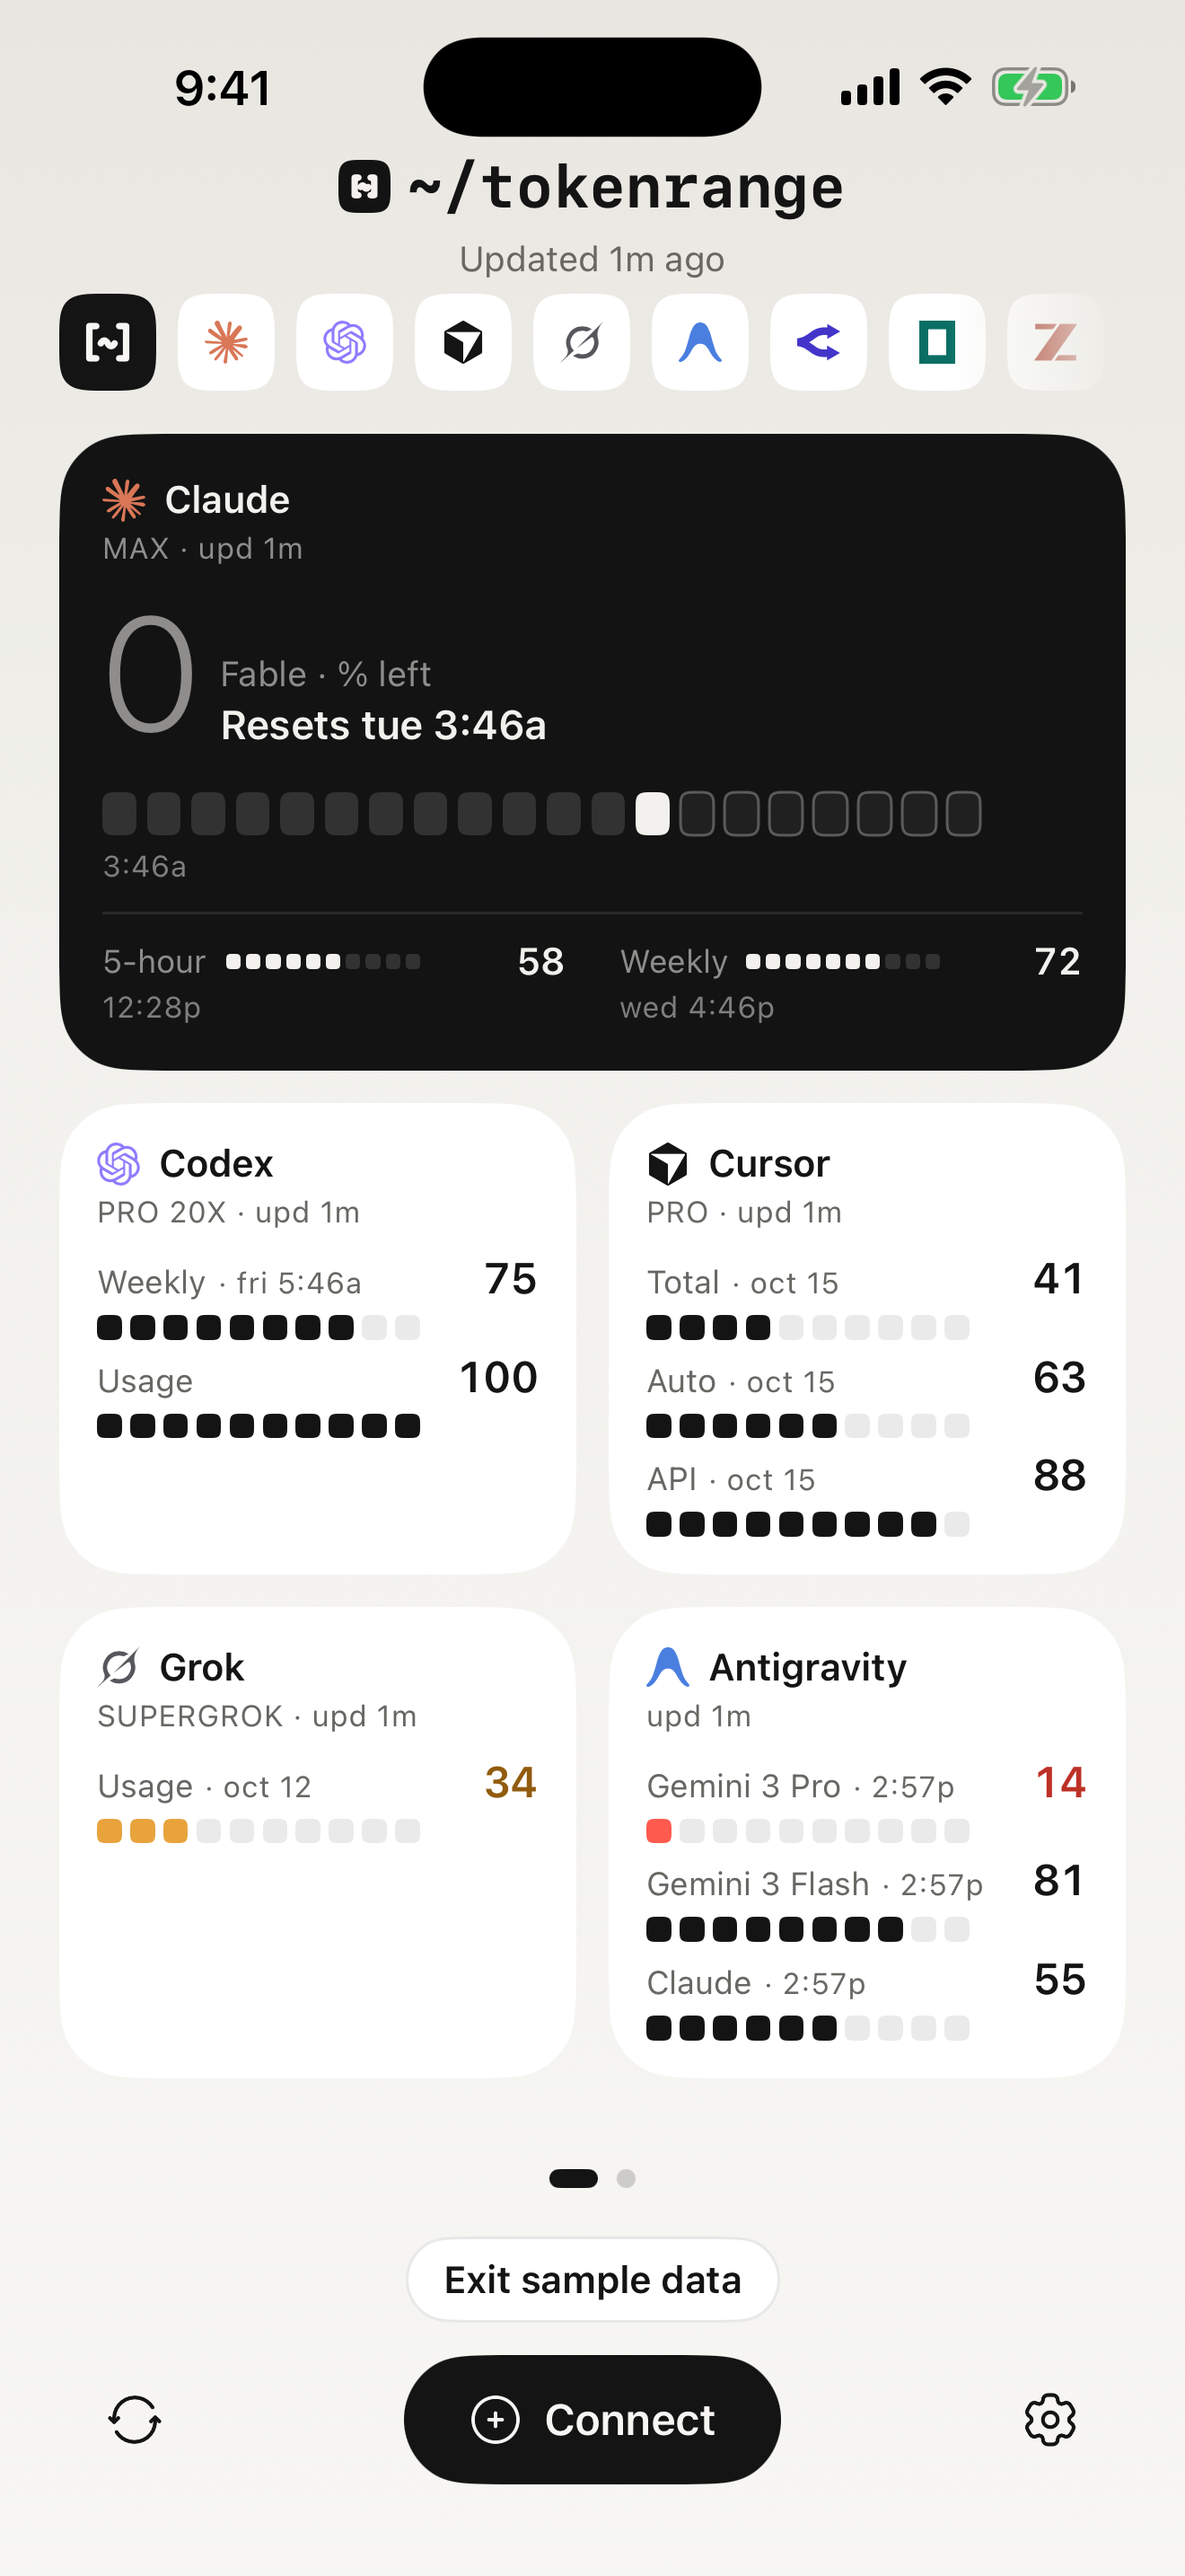
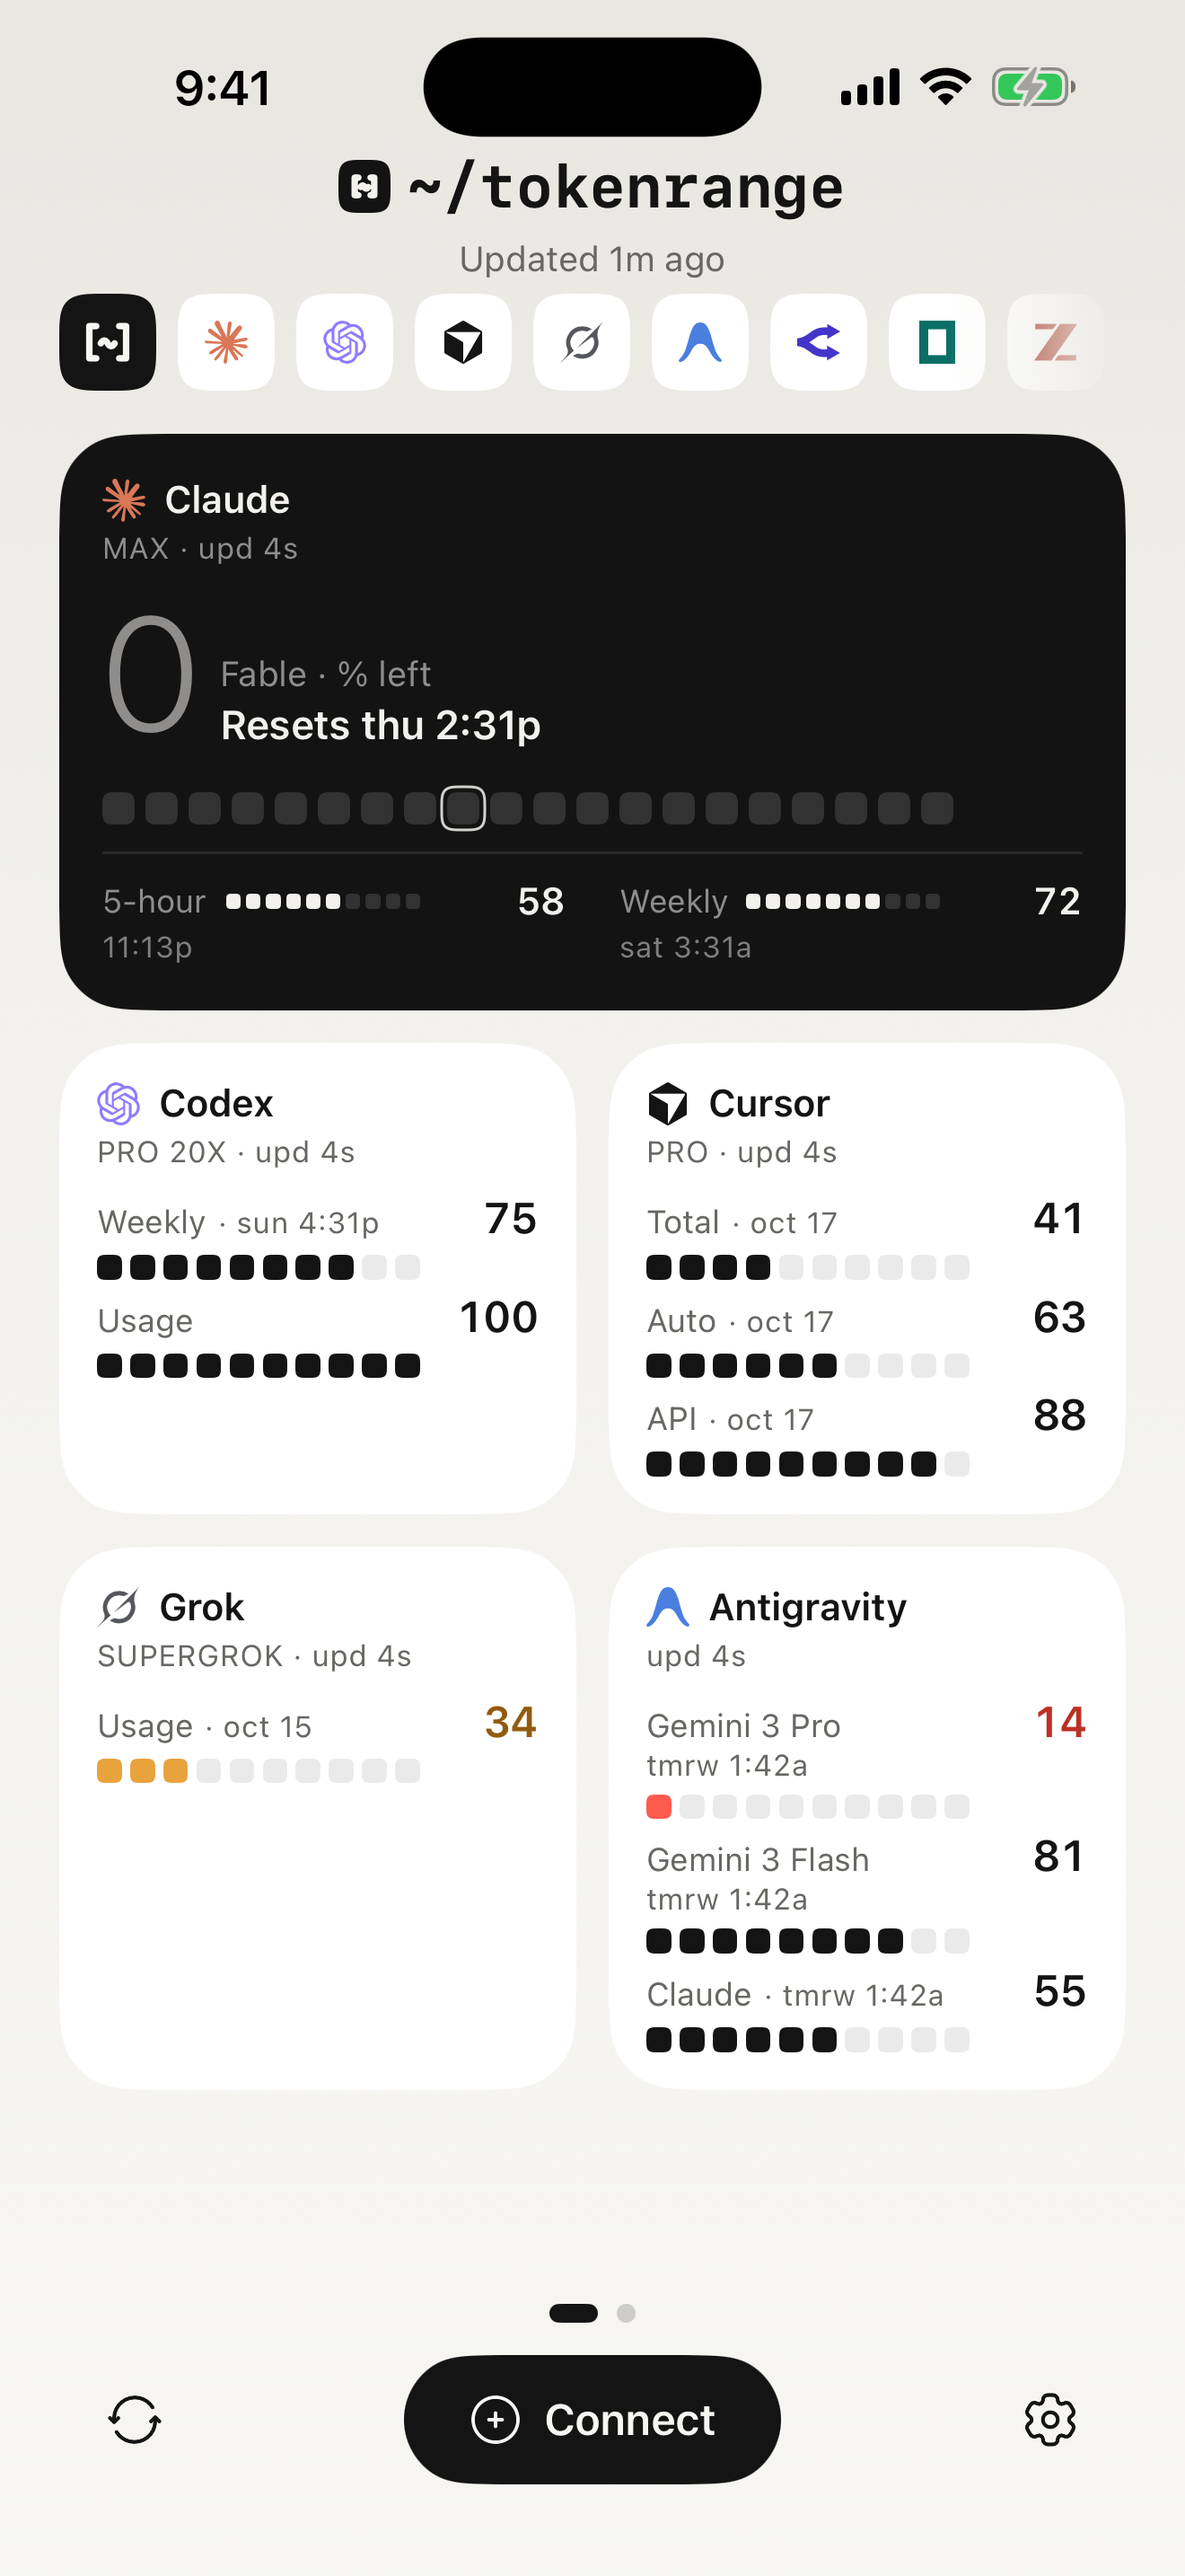
site: refresh dashboard and theme screenshots for 9 providers and new hero row
Captured fresh iPhone 17 Pro Max simulator shots from main (PR 27's 20-cell
pace-ring hero row and the 9-provider chip rail) with sample data. Updated
the dashboard alt text to describe the hero card's pace-ring meter. Widget
images are unchanged (gallery cell is untappable on iOS 26.5 sim; kept the
existing known-good captures rather than fake them).

diff --git a/index.html b/index.html
@@ -437,8 +437,8 @@
     </div>
     <div class="hero-shot">
       <div class="phone">
-        <img src="assets/bento-shot-dashboard.png?v=20261003" width="1320" height="2868"
-             alt="Token Range dashboard with a black Claude tile and white Codex, Cursor, Grok, and Antigravity tiles, each with grid-cell meters, sample data"
+        <img src="assets/bento-shot-dashboard.png?v=20261005" width="1320" height="2868"
+             alt="Token Range dashboard with a 9-provider chip rail, a black Claude hero card with a 20-cell pace-ring meter, and white Codex, Cursor, Grok, and Antigravity tiles, each with grid-cell meters, sample data"
              fetchpriority="high">
       </div>
     </div>
@@ -485,7 +485,7 @@
         </div>
         <div class="shot">
           <div class="phone">
-            <img src="assets/bento-shot-themes.png?v=20261003" width="1320" height="2868"
+            <img src="assets/bento-shot-themes.png?v=20261005" width="1320" height="2868"
                  alt="Token Range theme sheet showing light, house, LLM, and terminal skins grouped with PRO locks, canvas in use">
           </div>
         </div>
